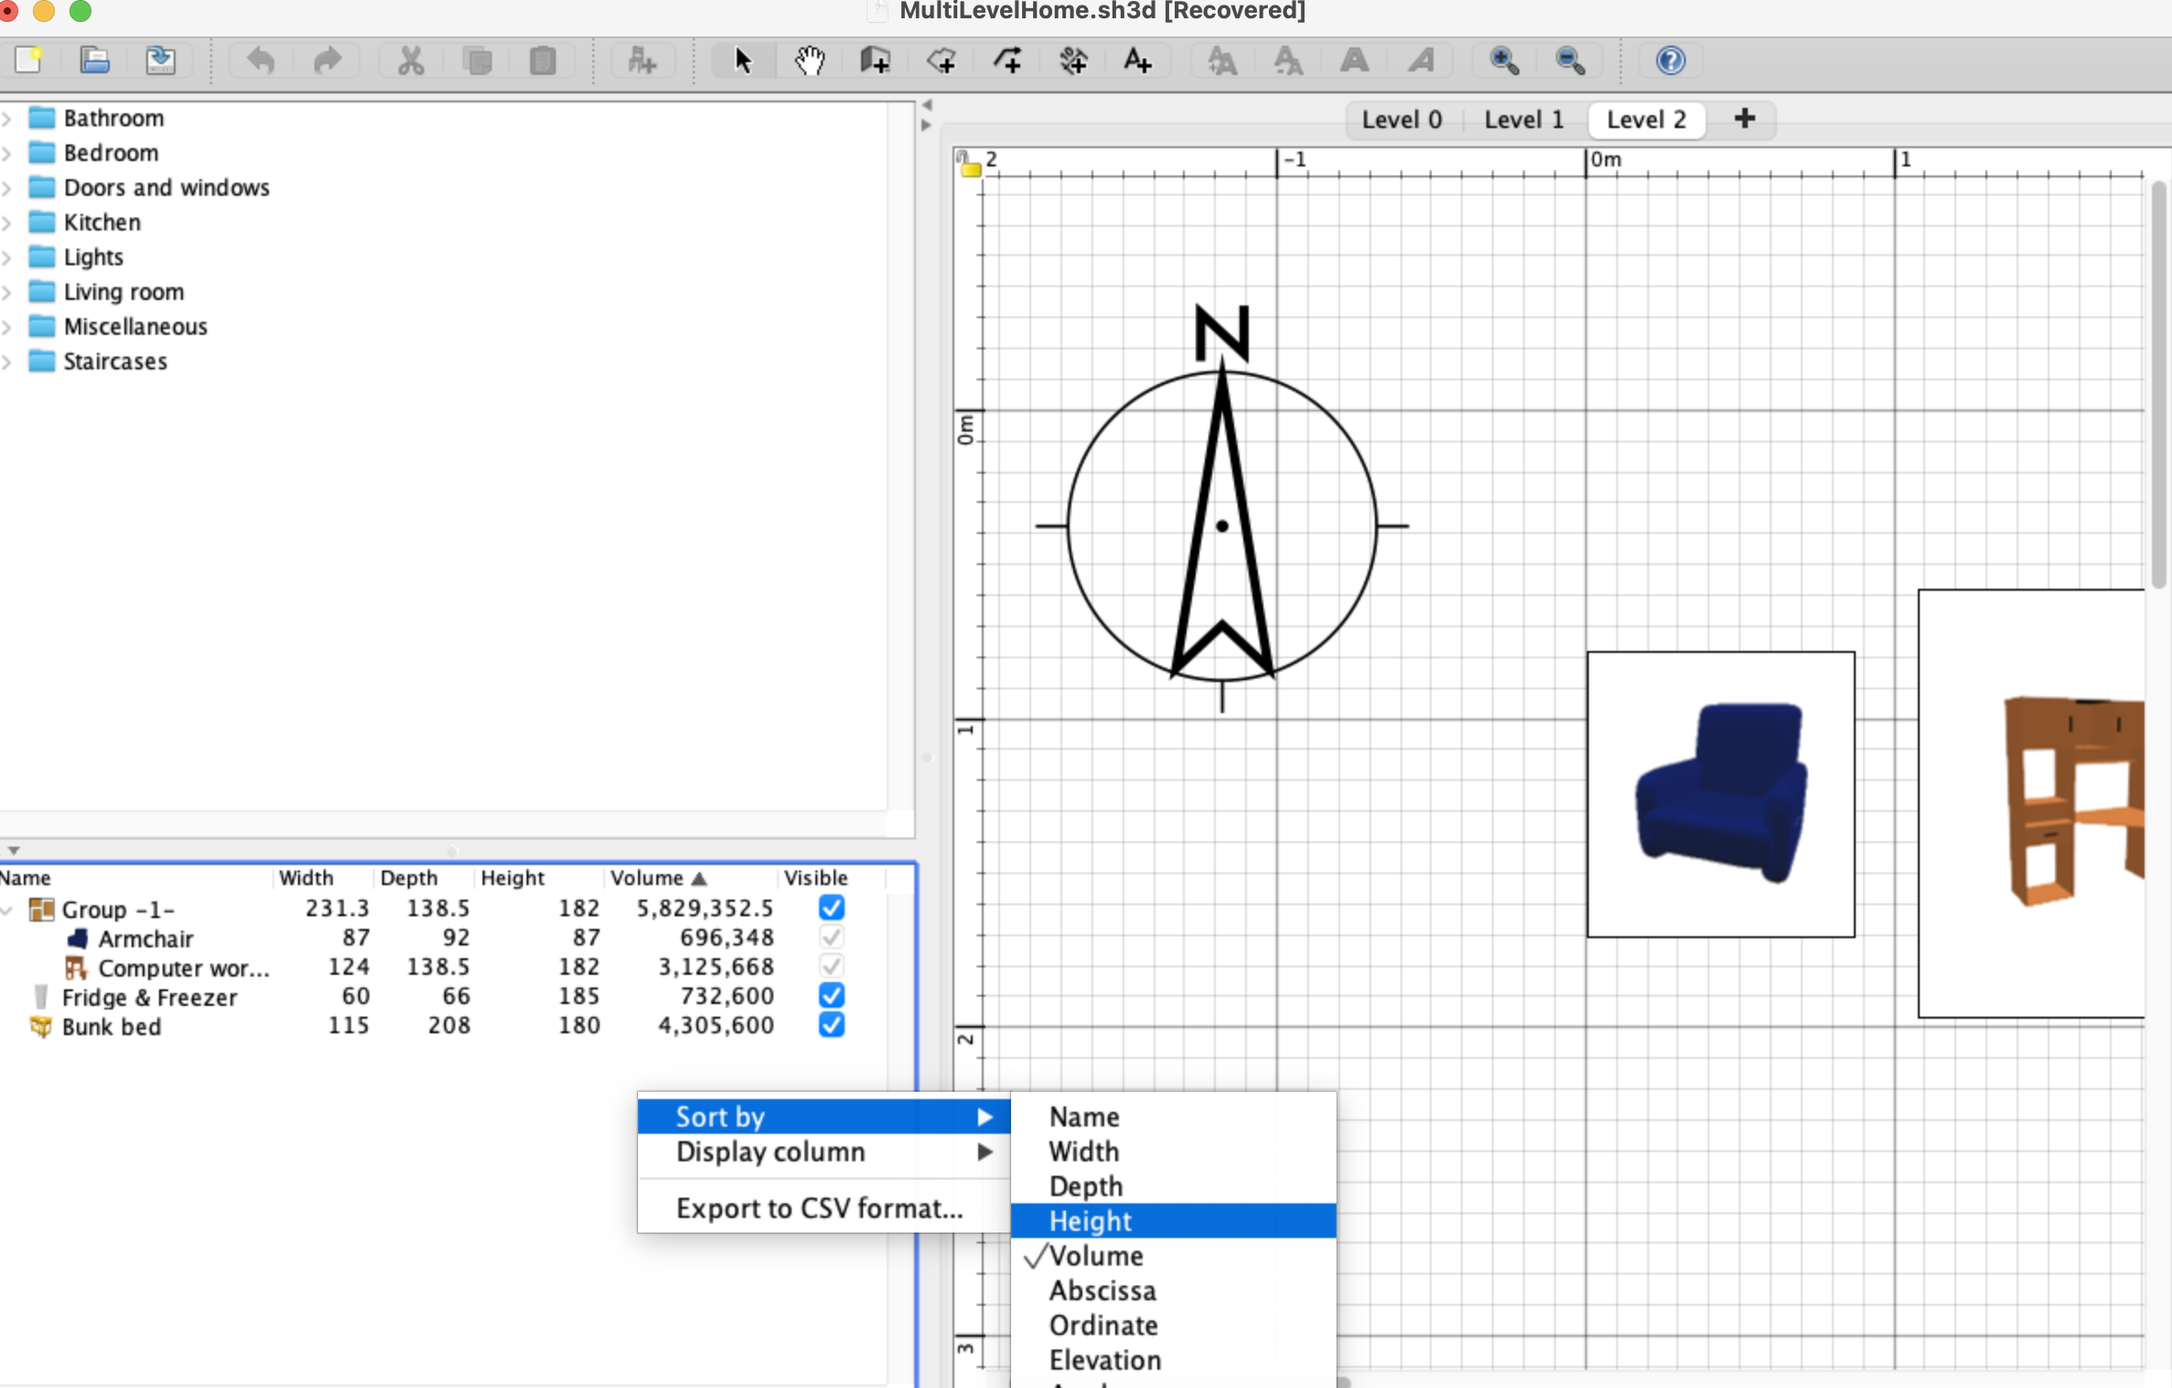
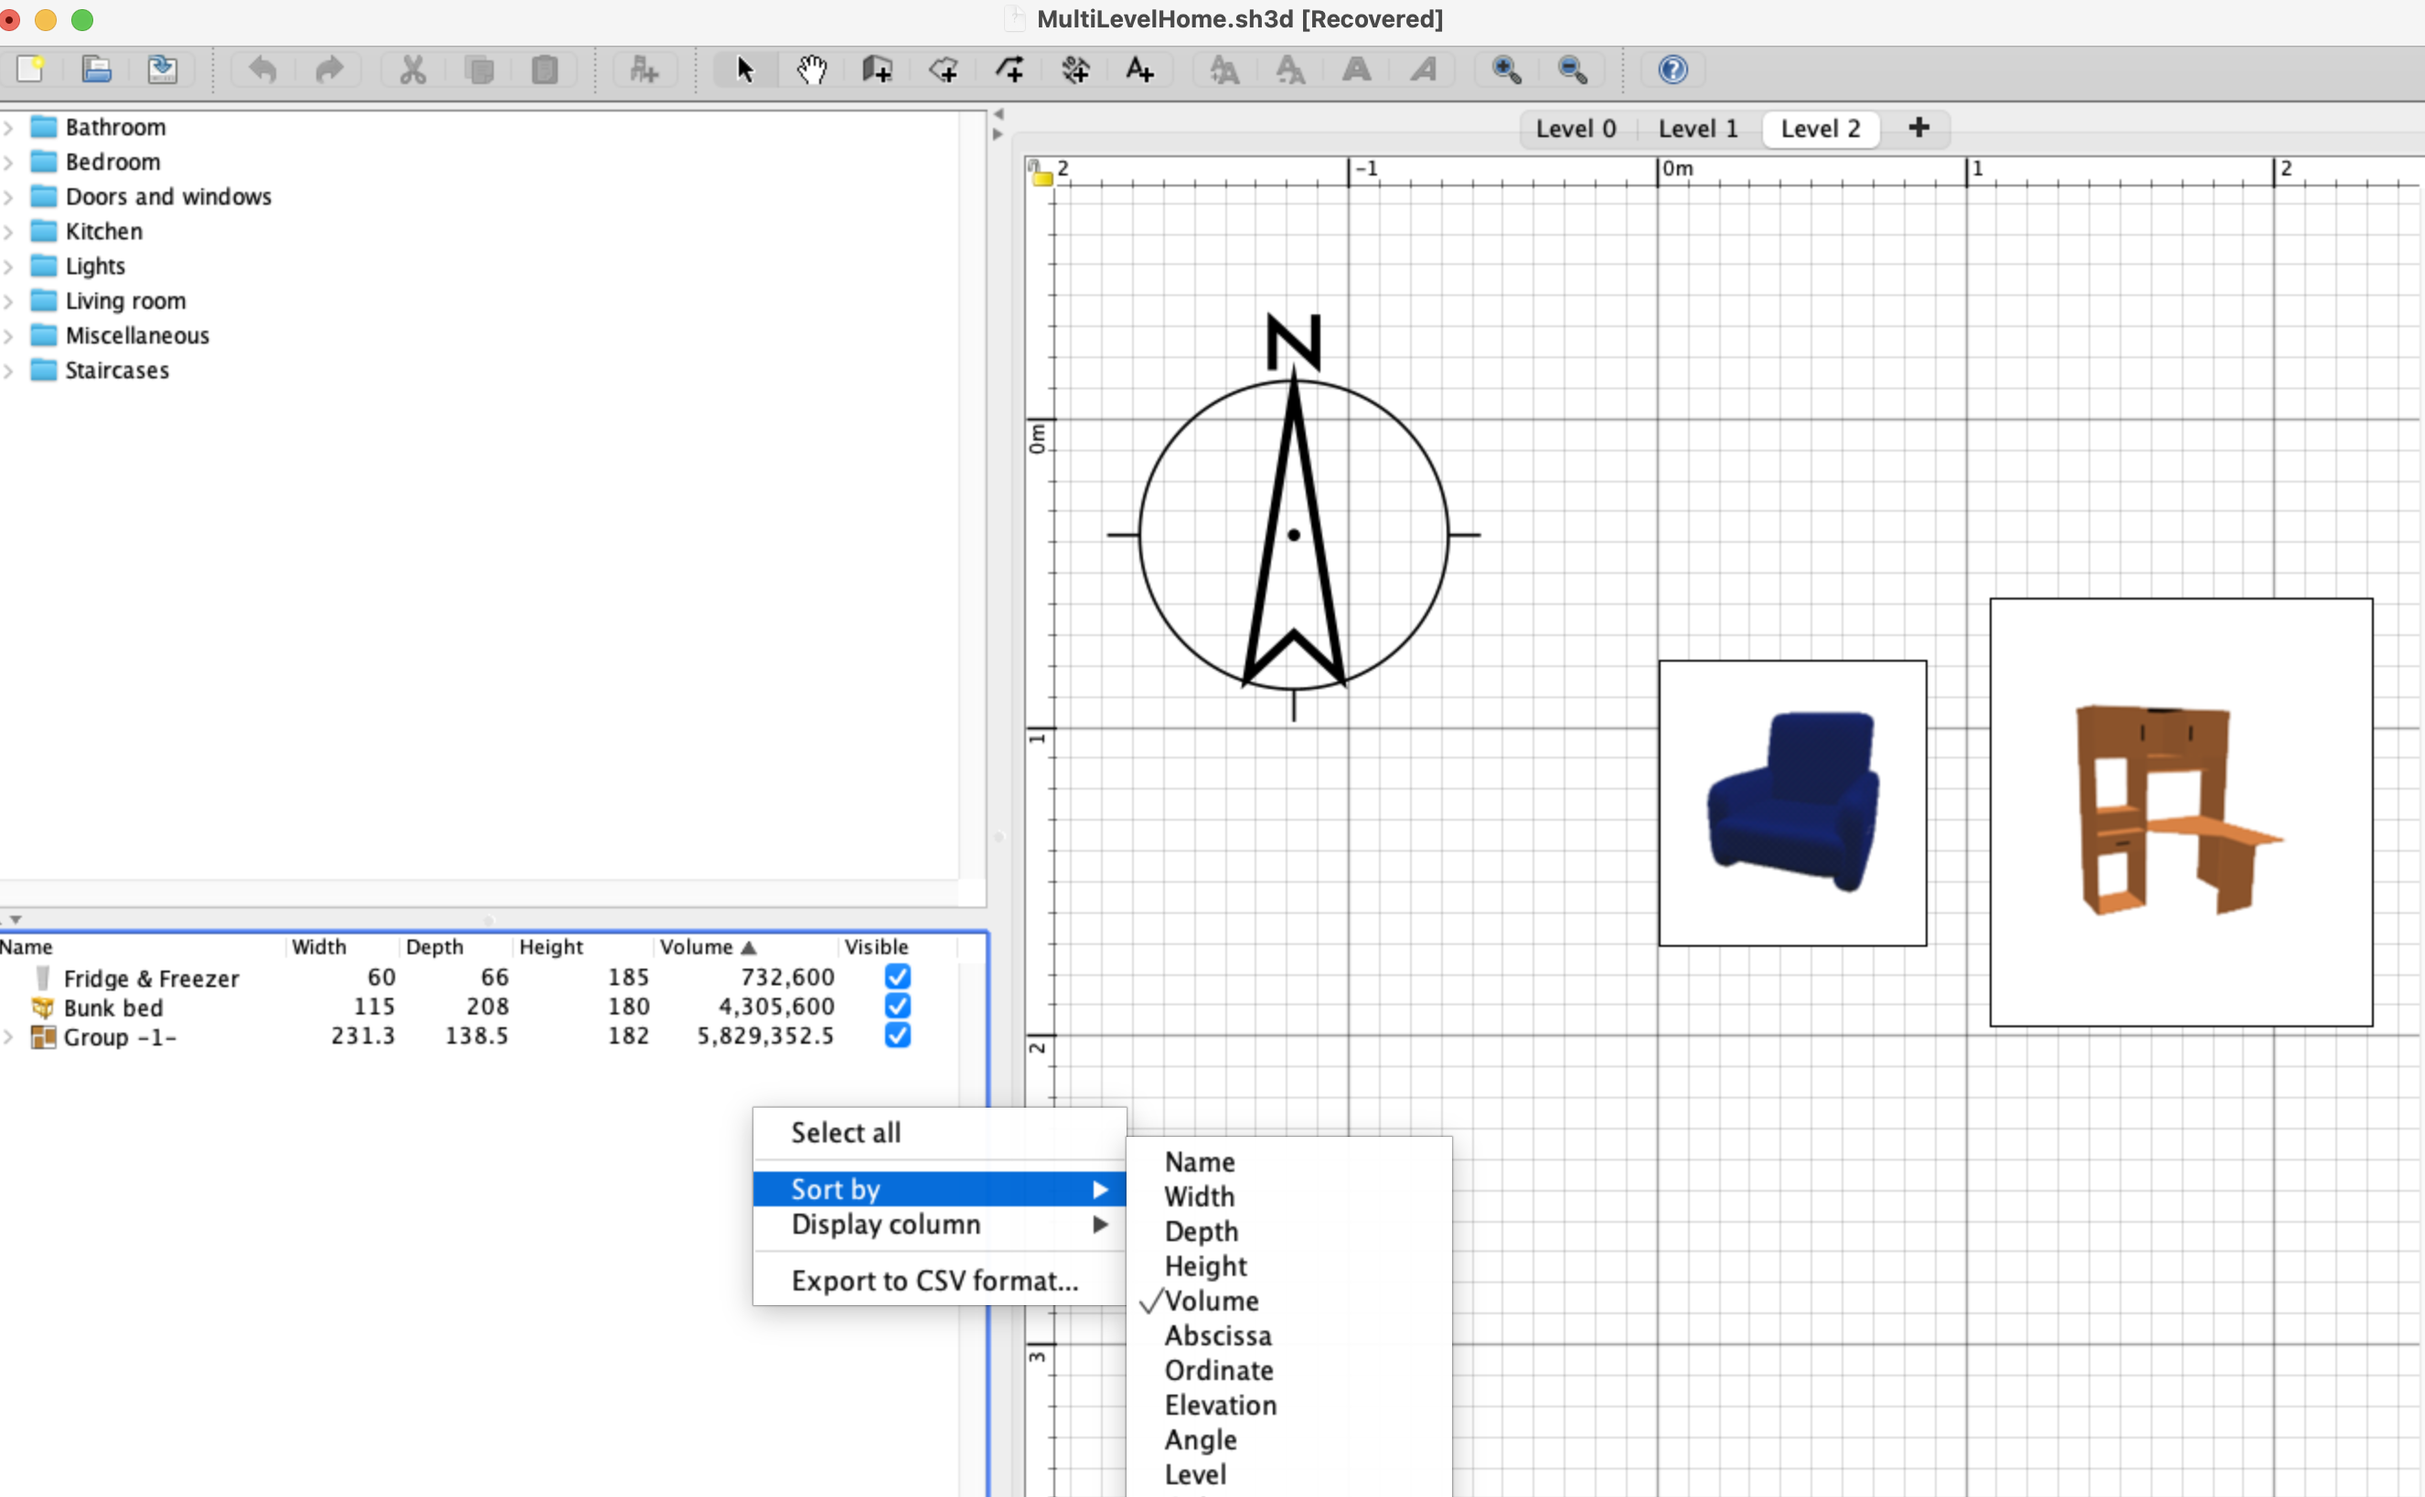
Final changes made to task 3, to properly sort the volume feature -(#2)

Changed region(s): [[0.0, 0.0, 1.0, 1.0]]

diff --git a/SweetHome3D/src/com/eteks/sweethome3d/model/HomePieceOfFurniture.java b/SweetHome3D/src/com/eteks/sweethome3d/model/HomePieceOfFurniture.java
@@ -109,7 +109,7 @@ public class HomePieceOfFurniture extends HomeObject implements PieceOfFurniture
       });
     SORTABLE_PROPERTY_COMPARATORS.put(SortableProperty.VOLUME, new Comparator<HomePieceOfFurniture>() {
       public int compare(HomePieceOfFurniture piece1, HomePieceOfFurniture piece2) {
-        return HomePieceOfFurniture.compare(piece1.volume, piece2.volume);
+        return HomePieceOfFurniture.compare(piece1.getVolume(), piece2.getVolume());
       }
     });
     SORTABLE_PROPERTY_COMPARATORS.put(SortableProperty.MOVABLE, new Comparator<HomePieceOfFurniture>() {
